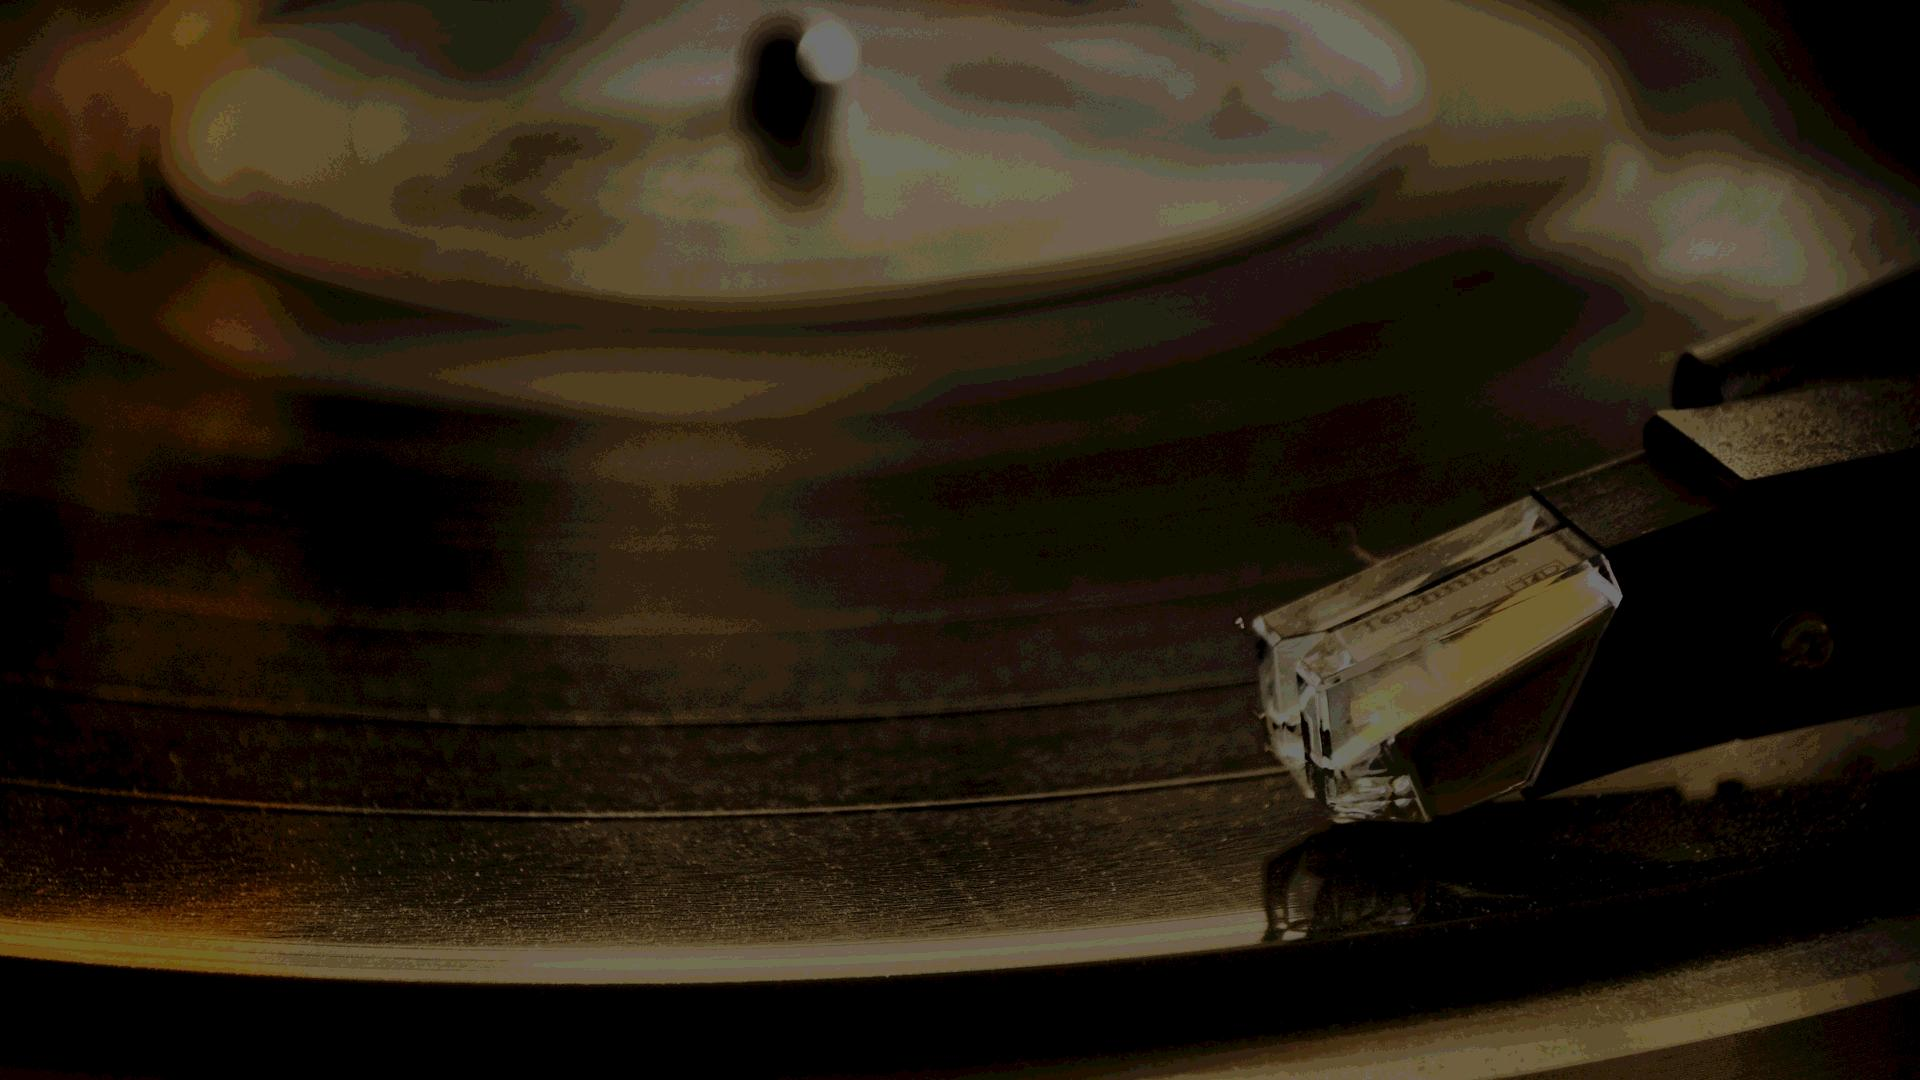
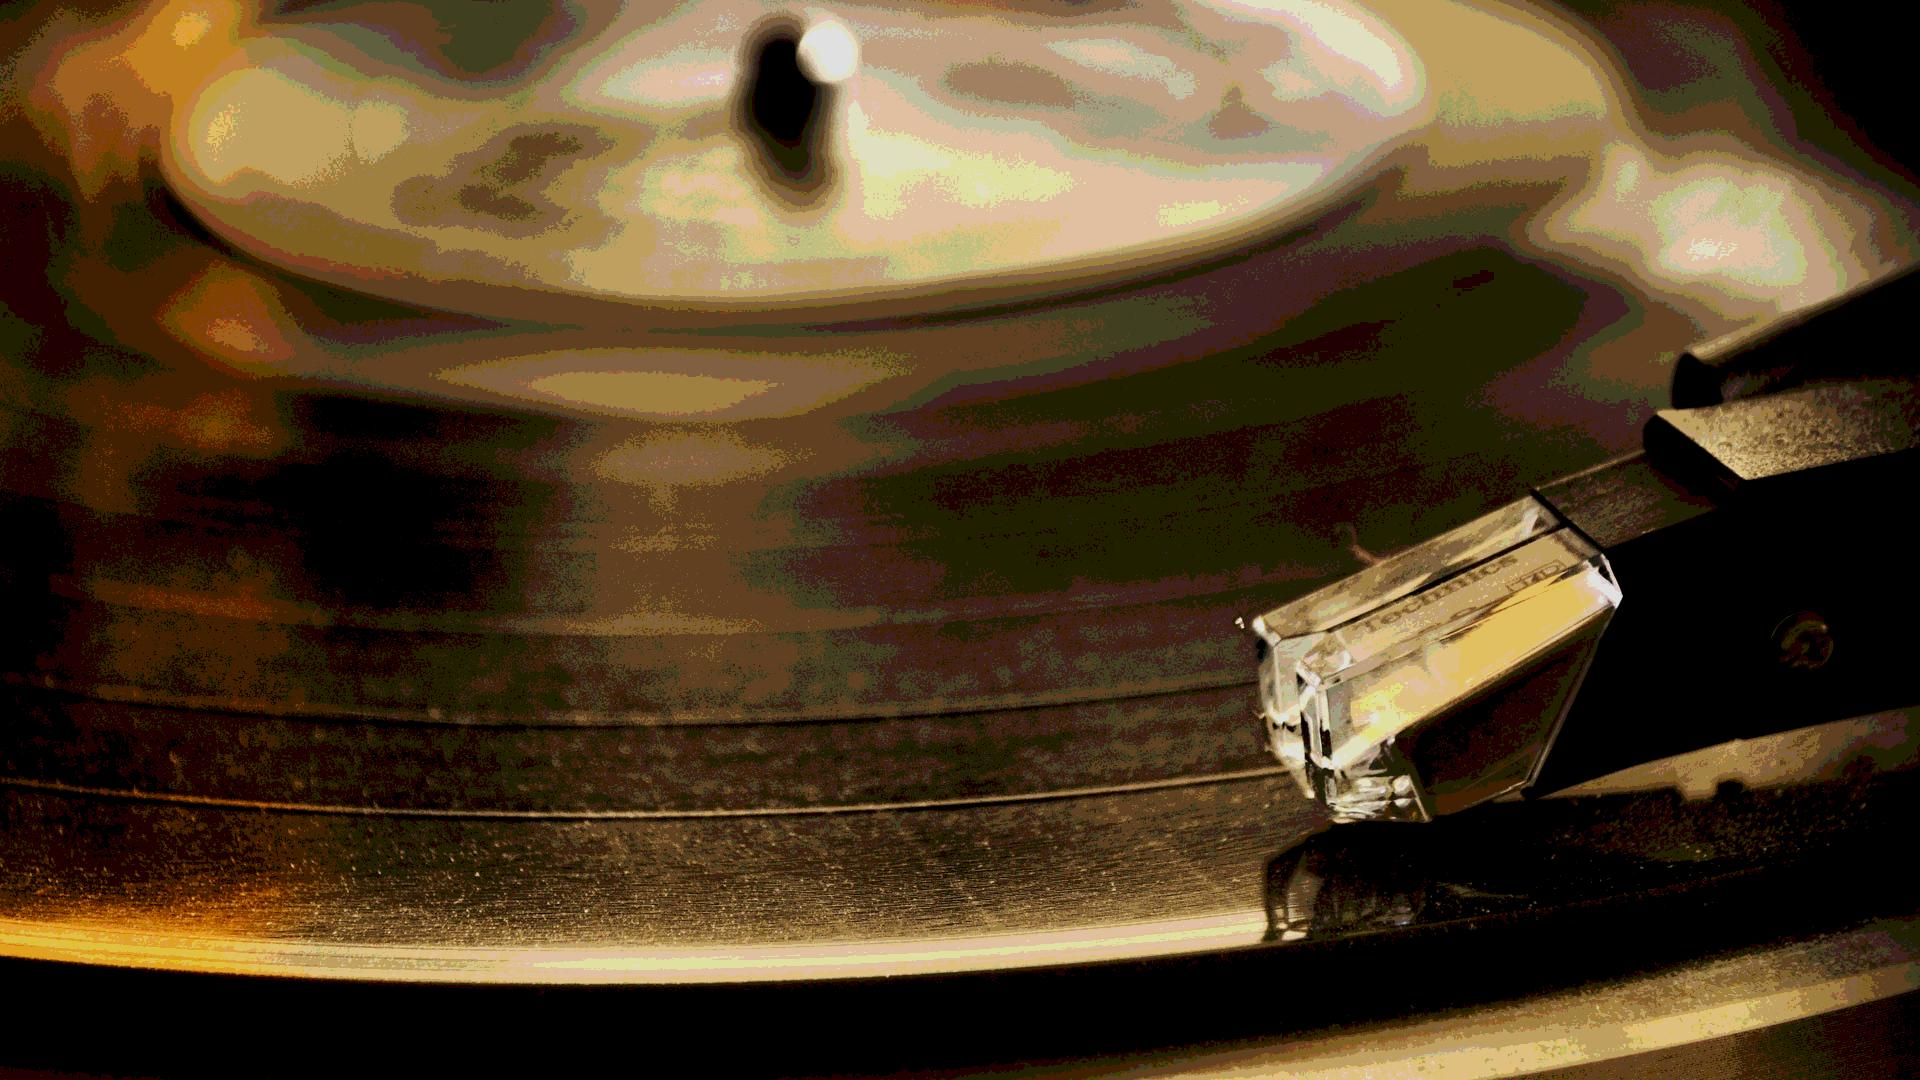
final assignment ue4/1

diff --git a/ue04/bsp15/program.cs b/ue04/bsp15/program.cs
@@ -1,0 +1,121 @@
+using System;
+using System.Collections.Generic;
+using System.Linq;
+using System.Drawing;
+using System.Text;
+
+namespace lowpass
+{
+    class program
+    {
+        static void Main(string[] args)
+        {
+            
+            
+
+            Image i = Image.FromFile(args[0]);
+			Bitmap img = new Bitmap(i);
+
+			lowpass(img);
+			highpass(img);
+
+			Console.WriteLine("DONE");
+
+			Console.ReadLine();
+        }
+
+        static void lowpass(Bitmap img){
+        	Bitmap newimg = new Bitmap(img.Width, img.Height);
+         	double r,g,b;
+         	double valr;
+					double valg; 
+					double valb;
+        	Color c;
+			double[] h = new double[]{(-1.0)/8.0,(2.0/8.0),(6.0/8.0),(2.0/8.0),(-1.0)/8.0};
+			
+			for(int x = 0; x < img.Width; x++){
+				for(int y = 0; y < img.Height; y++){
+					r = 0;
+					g = 0;
+					b = 0;
+
+					for(int i = -2; i < 3; i++){
+						if((x < 2)||(x > img.Width-3)){
+							valr = 0;
+							valg = 0;
+							valb = 0;
+						}
+						else{
+							valr = (img.GetPixel(x+i,y).R);
+							valg = (img.GetPixel(x+i,y).G);
+							valb = (img.GetPixel(x+i,y).B);
+						}
+							r += (valr * h[i+2]);
+							g += (valg * h[i+2]);
+							b += (valb * h[i+2]);
+
+					}
+
+					if(r < 0) r = 0;
+					if(r > 255) r = 255;
+					if(g < 0) g = 0;
+					if(g > 255) g = 255;
+					if(b < 0) b = 0;
+					if(b > 255) b = 255;
+					c = Color.FromArgb((int)r,(int)g,(int)b);
+					newimg.SetPixel(x,y,c);
+				}
+			}
+			newimg.Save("lowpass.jpg", System.Drawing.Imaging.ImageFormat.Jpeg);
+         	
+    	}
+
+    	static void highpass(Bitmap img){
+        	Bitmap newimg = new Bitmap(img.Width, img.Height);
+         	double r,g,b;
+         	double valr;
+					double valg; 
+					double valb;
+        	Color c;
+			double[] t = new double[]{(-1.0/2.0),1.0,(-1.0/2.0)};
+			foreach(double a in t) Console.WriteLine(a);
+			for(int x = 0; x < img.Width; x++){
+				for(int y = 0; y < img.Height; y++){
+					r = 0;
+					g = 0;
+					b = 0;
+
+					for(int i = -1; i < 2; i++){
+						if((x < 1)||(x > img.Width-2)){
+							valr = 0;
+							valg = 0;
+							valb = 0;
+						}
+						else{
+							valr = (img.GetPixel(x+i,y).R);
+							valg = (img.GetPixel(x+i,y).G);
+							valb = (img.GetPixel(x+i,y).B);
+						}
+							r += (valr * t[i+1]);
+							g += (valg * t[i+1]);
+							b += (valb * t[i+1]);
+
+					}
+					r *= r;
+					g *= g;
+					b *= b;
+					if(r < 0) r = 0;
+					if(r > 255) r = 255;
+					if(g < 0) g = 0;
+					if(g > 255) g = 255;
+					if(b < 0) b = 0;
+					if(b > 255) b = 255;
+					c = Color.FromArgb((int)r,(int)g,(int)b);
+					newimg.SetPixel(x,y,c);
+				}
+			}
+			newimg.Save("highpass.jpg", System.Drawing.Imaging.ImageFormat.Jpeg);
+         	
+    	}
+    }
+}

diff --git a/ue03/bsp11/progam.cs b/ue03/bsp11/progam.cs
@@ -34,7 +34,7 @@ namespace image
             {
                 for (int y = 0; y < img.Height; y++)
                 {
-                    greyval = (img.GetPixel(x, y).G + img.GetPixel(x, y).G + img.GetPixel(x, y).B) / 3;
+                    greyval = (int)(0.299*img.GetPixel(x, y).R + 0.587*img.GetPixel(x, y).G + 0.114*img.GetPixel(x, y).B);
                     c = Color.FromArgb(greyval,greyval,greyval);
                     img.SetPixel(x, y, c);
                 }
@@ -61,7 +61,7 @@ namespace image
             {
                 for (int y = 0; y < img.Height; y++)
                 {
-                    c = Color.FromArgb(img.GetPixel(x, y).R,img.GetPixel(x, y).G,0);
+                    c = Color.FromArgb(0,0,img.GetPixel(x,y).B);
                     img.SetPixel(x, y, c);
                 }
             }

diff --git a/ue03/bsp10/Program.cs b/ue03/bsp10/Program.cs
@@ -92,11 +92,11 @@ namespace image
                 for (int y = 0; y < img.Height; y++)
                 {
                     int r = img.GetPixel(x, y).R / 32;
-                    r *= 16;
+                    r *= 32;
                     int g = img.GetPixel(x, y).G / 32;
-                    g *= 16;
+                    g *= 32;
                     int b = img.GetPixel(x, y).B / 32;
-                    b *= 16;
+                    b *= 32;
                     c = Color.FromArgb(r, g, b);
                     img.SetPixel(x, y, c);
                 }
